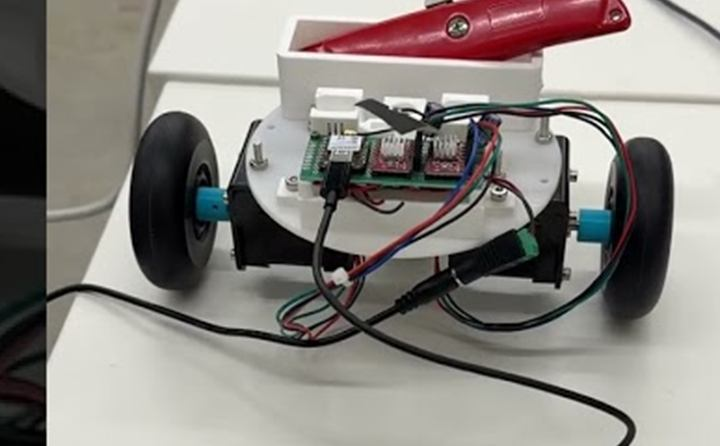
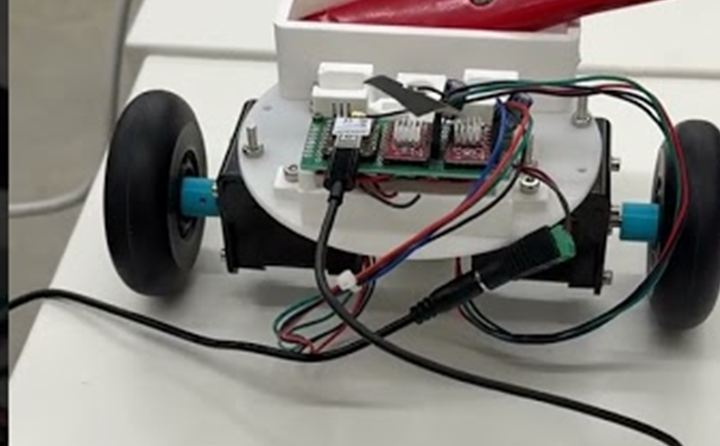
Remove strapdown's injected navbar, fix week 7 crop and week 1 caption
strapdown only injects its own navbar when it finds no element with class
"navbar". Renaming the header to "site-nav" in the previous commit made
that check fail, so every write-up grew a stray unstyled block above the
header: the page title plus hardcoded links to ../people.html and
../about.html from the upstream project's own site. Removed the injection
outright rather than renaming the class back, so it cannot return.

- Match the About personal note to the bio at 17px/32px. At 15px in #888
  under a 17px #444 paragraph it read as a different typeface.
- Recut the week 7 thumbnail. Scanning the frame for local contrast puts
  the sharp content strip at 412-772, not the 413-800 I had estimated, so
  the crop was pulling blur bar in on the right and squeezing the subject.
- Week 1's drone image is a reference photo, not William's own sketch;
  correct the caption and alt text to say so.

diff --git a/strapdown.js b/strapdown.js
@@ -430,31 +430,13 @@ var PR=win['PR']={'createSimpleLexer':createSimpleLexer,'registerLangHandler':re
   newNode.id = 'content';
   document.body.replaceChild(newNode, markdownEl);
 
-  // Insert navbar if there's none // FIXME be sure THIS is good.
-  var newNode = document.createElement('div');
-  newNode.className = 'navbar navbar-fixed-top';
-  if (!navbarEl && titleEl) {
-    newNode.innerHTML = '<div class="navbar-inner"> <div class="container"> <div id="headline" class="brand"> </div> '
-	    + '<div id="headline-copyrights" class="brand">'
-        // + '<a href="https://docs.google.com/forms/d/e/1FAIpQLSd5NfvJBcjNiQoaGDW2io12W1BX7VzB2_3cie9P1O8eUxjLdw/viewform">Application</a> -->
-        + '<a href="../people.html">People</a> '
-        + '<a href="../about.html">About</a>'
-	    //+ '<a title="http://lbo.k.vu/md" href="http://lbesson.bitbucket.org/md/index.html?src=strapdown.js">StrapDown.js</a> v0.6, '
-	    //+ 'theme <a title="More information on this theme on bootswatch.com!" href="http://bootswatch.com/'+theme+'">'+theme+'</a>, '
-	    //+ 'thanks to <a href="https://bitbucket.org/">BitBucket</a>)</div> '
-	    //+ '<div id="headline-squirt" class="brand"> <a title="Quick reader script! Check http://lbesson.bitbucket.org/squirt/ for more details" '
-	    //+ 'href="javascript:(function(){sq=window.sq;if(sq&&sq.closed){window.sq.closed&&window.document.dispatchEvent(new Event(\'squirt.again\'));}else{sq=window.sq||{};sq.version=\'0.4\';sq.host=\'http://lbesson.bitbucket.org/squirt\';sq.j=document.createElement(\'script\');sq.j.src=sq.host+\'/squirt.js?src=strapdown.js\';document.body.appendChild(sq.j);}})();" '
-	    //+ '>SquirtFR?</a>'
-        // var scriptElMathJax = document.createElement(\'script\'); scriptElMathJax.type = \'text/x-mathjax-config\'; scriptElMathJax.innerHTML = \'MathJax.Hub.Config({ tex2jax: { inlineMath: [[\\\'$\\\',\\\'$\\\']], displayMath: [ [\\\'$$\\\',\\\'$$\\\'] ], processEscapes: false } });\'; document.body.appendChild(scriptElMathJax);
-        //+ ' <a title="Import MathJax?" href="javascript:(function(){ var scriptElMathJax = document.createElement(\'script\'); scriptElMathJax.type = \'text/javascript\'; scriptElMathJax.src = \'https://cdn.mathjax.org/mathjax/latest/MathJax.js?config=TeX-AMS_HTML&amp;locale=fr\'; document.head.appendChild(scriptElMathJax); })();" >MathJax?</a>'
-        //+ ' <a title="Fetch a beacon image?" href="javascript:(function(){ var linkEl = document.createElement(\'img\'); linkEl.alt = \'GA|Analytics\'; linkEl.style = \'visibility: hidden; display: none;\'; linkEl.src = \'http://perso.crans.org/besson/beacon/14/navbar/strapdown.js?pixel\'; document.body.appendChild(linkEl); })();">Beacon?</a>' // https://ga-beacon.appspot.com/UA-38514290-14/
-        + '</div> </div> </div>';
-    document.body.insertBefore(newNode, document.body.firstChild);
-    var title = titleEl.innerHTML;
-    var headlineEl = document.getElementById('headline');
-    if (headlineEl)
-      headlineEl.innerHTML = title;
-  }
+  // Navbar injection removed.
+  //
+  // Upstream builds its own fixed-top navbar whenever it finds no element with
+  // class "navbar" -- containing the page <title> plus hardcoded links to
+  // ../people.html and ../about.html from the upstream project's own site.
+  // Our header uses class "site-nav", so that kicked in and rendered a stray
+  // unstyled title + "People About" above every write-up. We supply the nav.
 
   //////////////////////////////////////////////////////////////////////
   //

diff --git a/01_intro/index.html b/01_intro/index.html
@@ -37,8 +37,8 @@ Here are my 3 ideas for my final project
 <h4>Idea 1 : High-Performance VFS Competition Drone</h4>
 <p class = "margin"></p>
 
-<img src="drone.jpg" alt="Sketch of VFS Drone Design" width="400">
-<p class="caption">Rough sketch of the VFS competition drone frame I had in mind for idea #1.</p>
+<img src="drone.jpg" alt="Reference airframe of the type proposed for idea 1" width="400">
+<p class="caption">Reference image of the kind of airframe I had in mind for idea #1 — not my own drawing.</p>
 <p class = "margin"></p>
 
 This project involves designing and fabricating a custom drone optimized for the Vertical Flight Society (VFS) competition specifications. The focus will be on creating a lightweight, aerodynamic frame using Fusion 360, then manufacturing it via 3D printing or carbon fiber machining.

diff --git a/style.css b/style.css
@@ -715,12 +715,15 @@ h3.project-title {
     margin-bottom: 0;
 }
  /* The personal note lives in About; reset the centring it used in Contact. */
+ /* Same size and leading as the bio above it -- at 15px/#888 it read as a
+    different typeface rather than a second paragraph. */
 .about-body .personal-line {
     max-width: none;
-    margin: 20px 0 0;
+    margin: 22px 0 0;
     text-align: left;
-    font-size: 15px;
-    line-height: 28px;
+    font-size: 17px;
+    line-height: 32px;
+    color: #555;
 }
 .about-body .tools-line {
     font-family: 'Inter', -apple-system, BlinkMacSystemFont, "Segoe UI", sans-serif;
